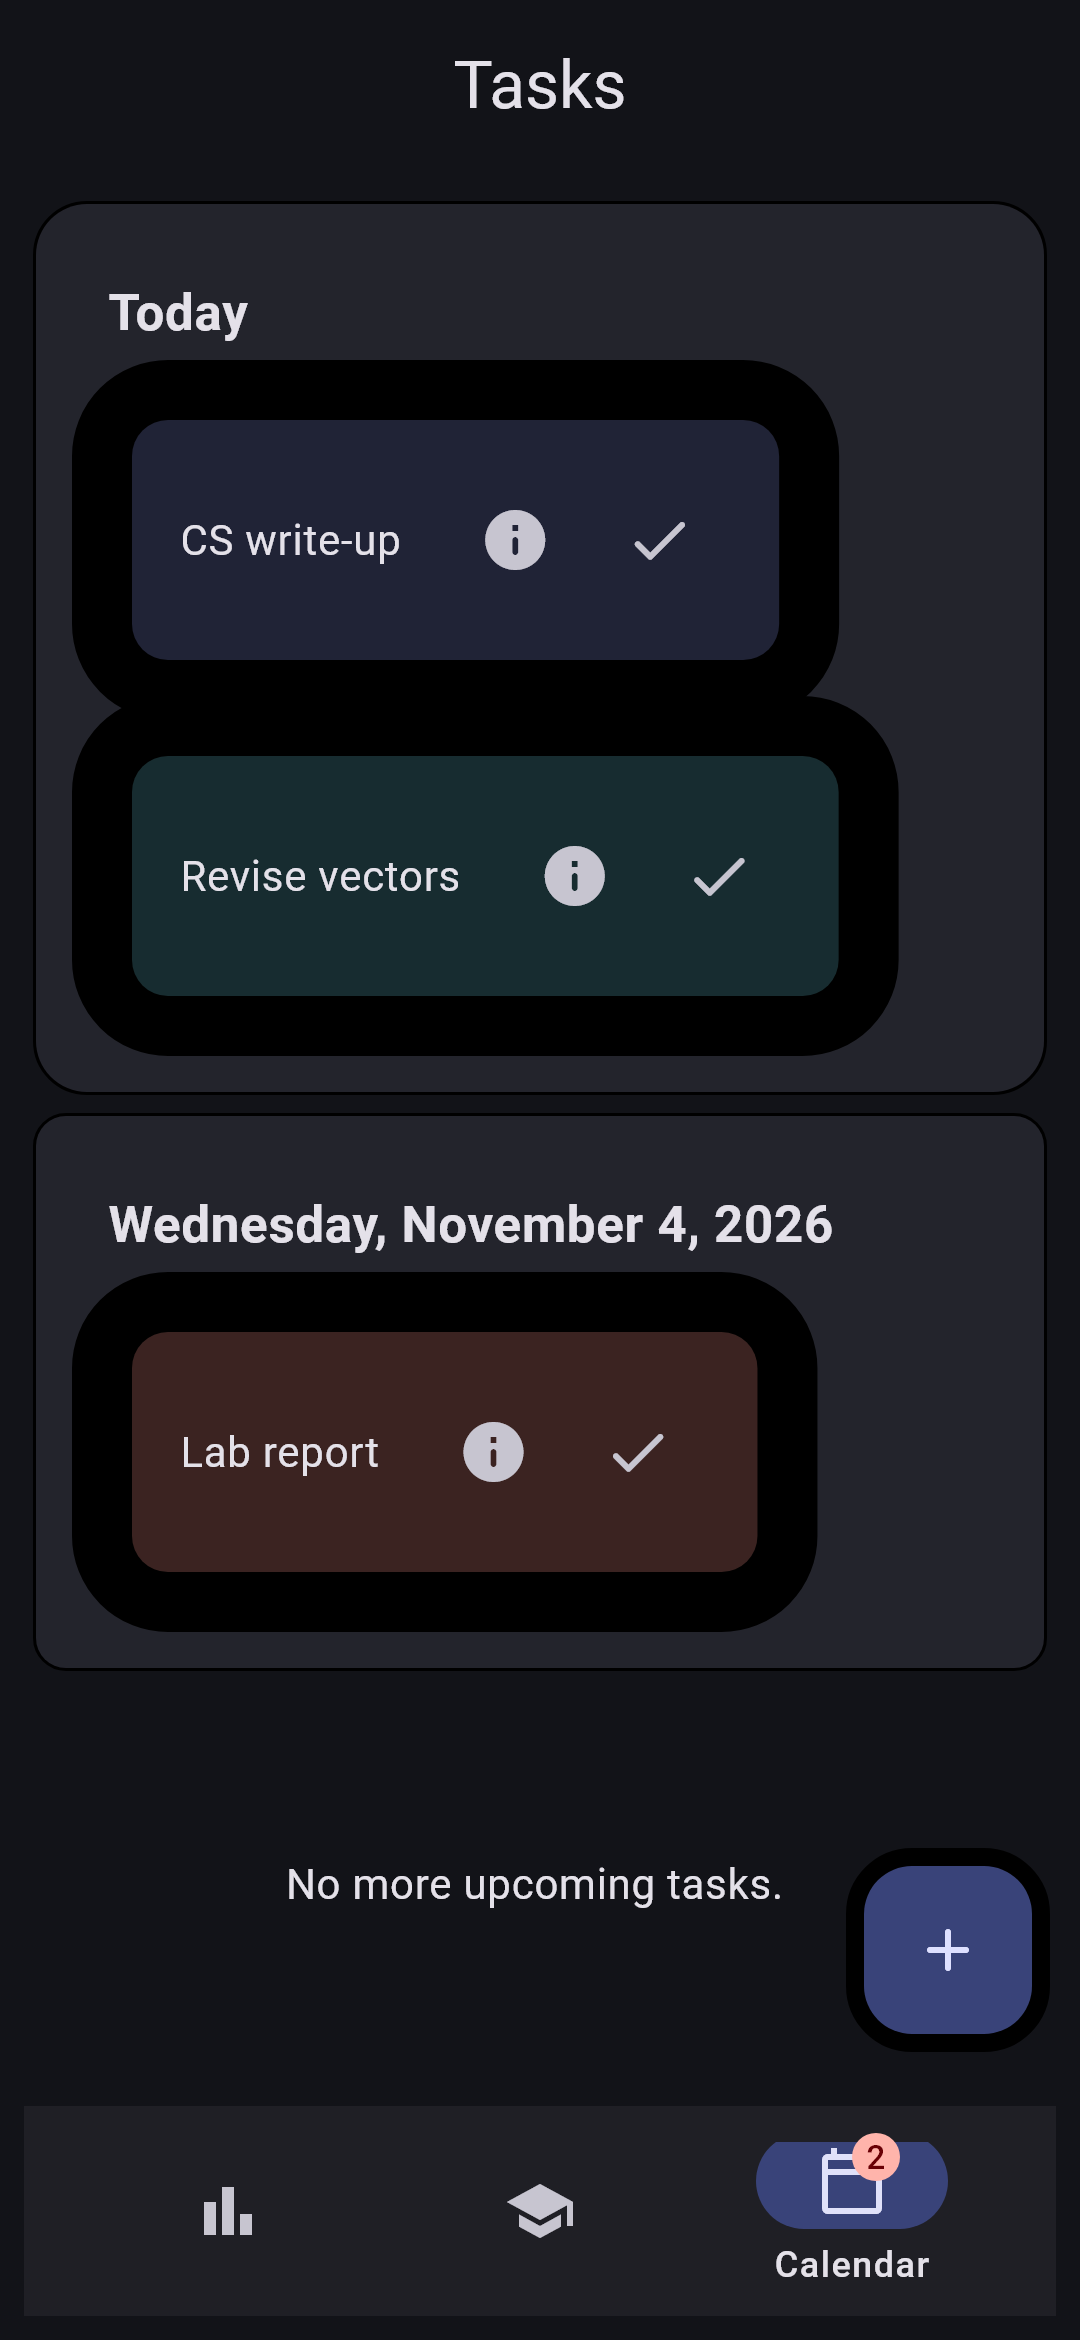
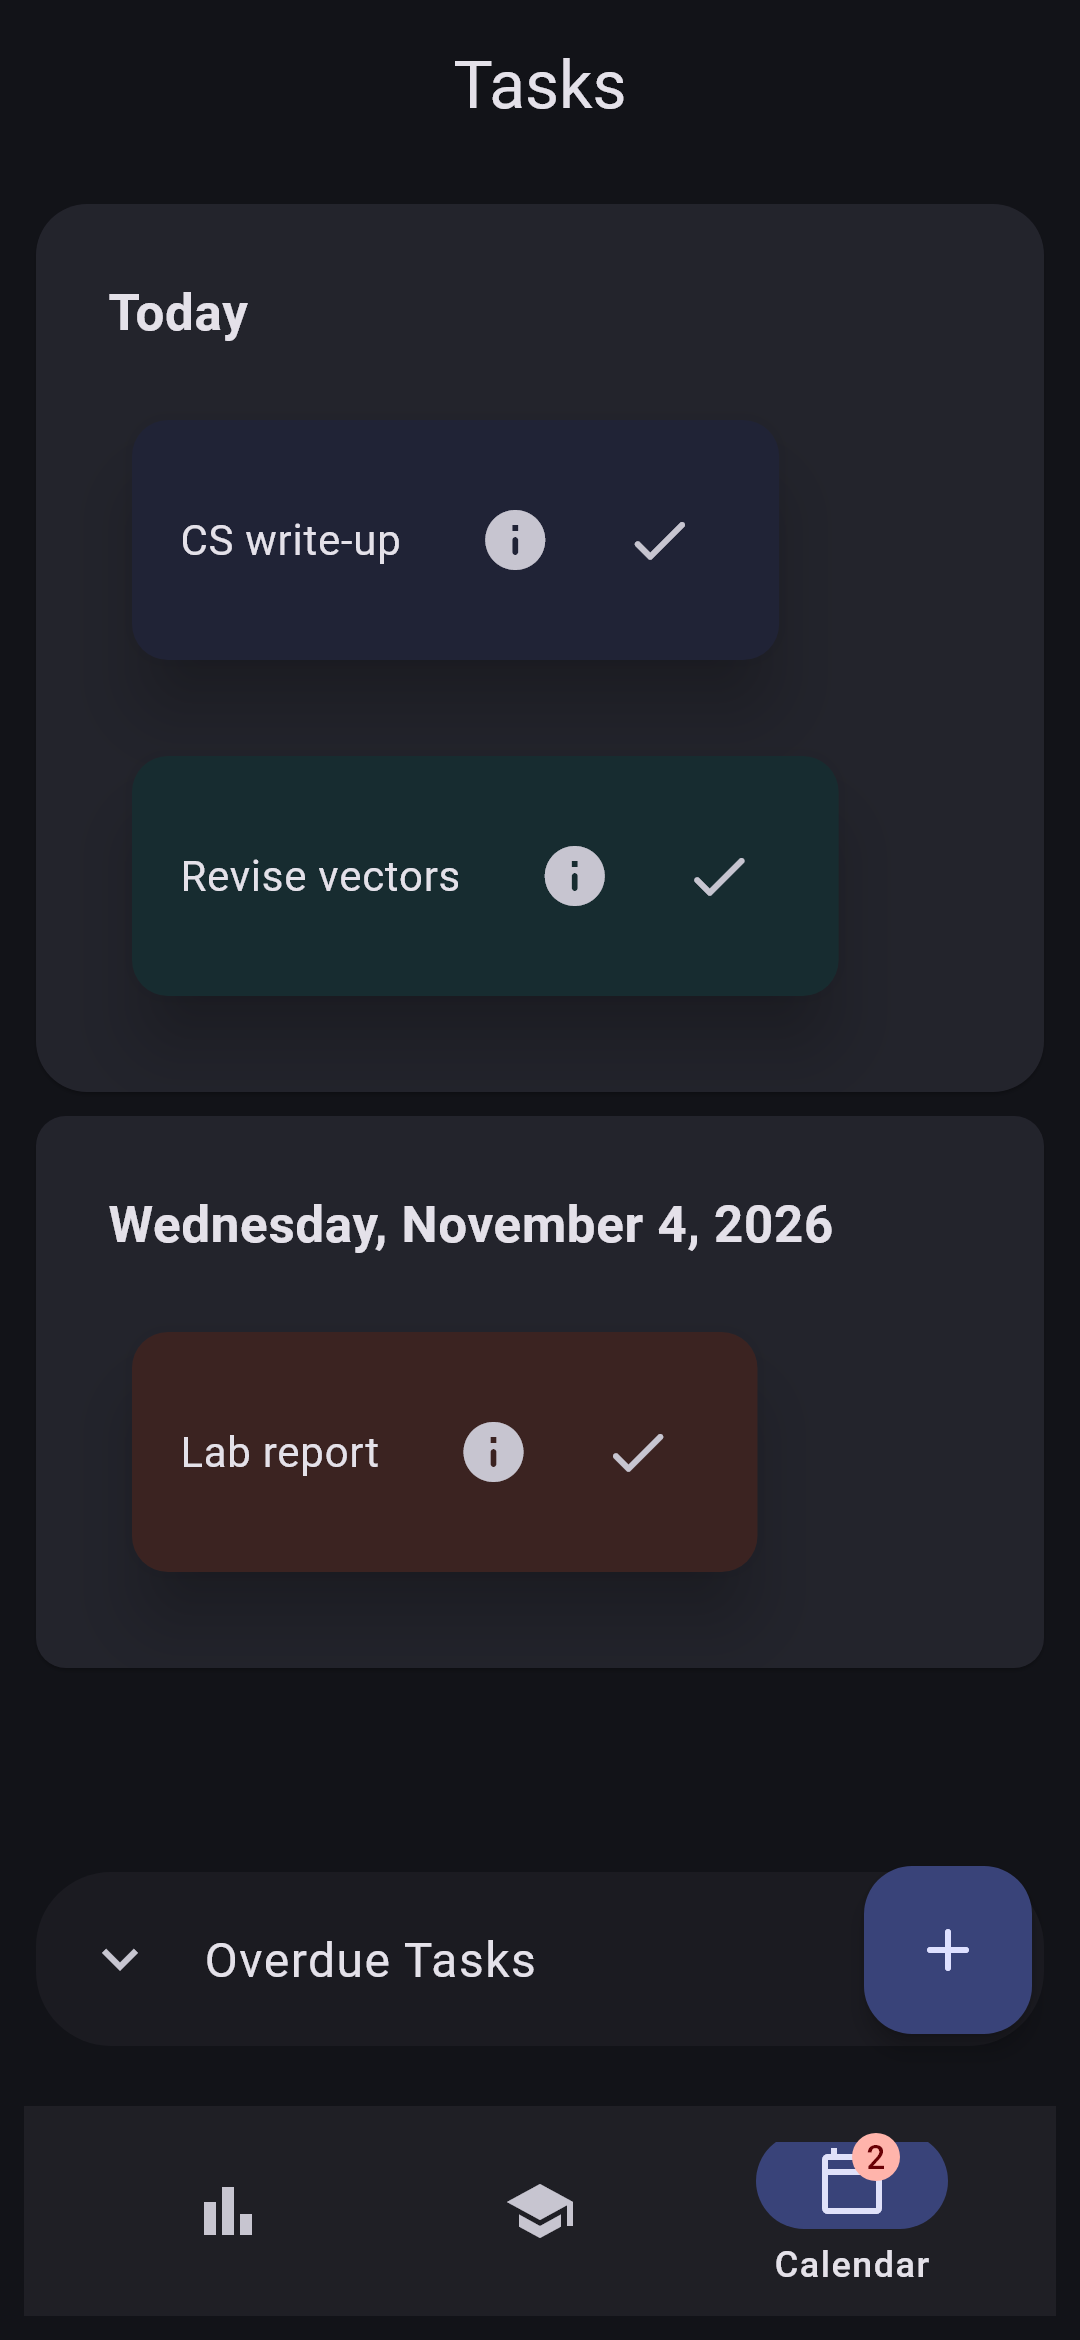
Center wrapped subject names; refresh README screenshots
- Subject names that wrap onto two lines are now centered
- Regenerate screenshots with real elevation shadows and sample data
  that includes an overdue task

diff --git a/lib/widgets/subject_card.dart b/lib/widgets/subject_card.dart
@@ -41,7 +41,11 @@ class _SubjectCardState extends State<SubjectCard> {
                   children: [
                     Material(
                       type: MaterialType.transparency,
-                      child: Text(widget.subject.name, style: Theme.of(context).textTheme.headlineMedium),
+                      child: Text(
+                        widget.subject.name,
+                        style: Theme.of(context).textTheme.headlineMedium,
+                        textAlign: TextAlign.center,
+                      ),
                     ),
                     if (!(teacher == '' && classroom == '')) ...[
                       const SizedBox(height: 10),
